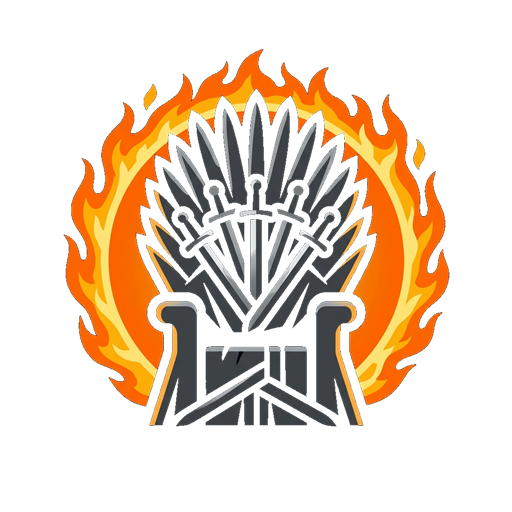
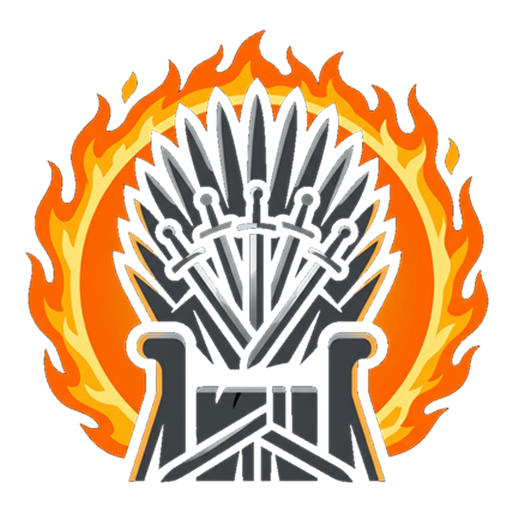
fix

diff --git a/style.css b/style.css
@@ -107,9 +107,8 @@ body.throne-open { overflow: hidden; }
 .realm-card > h1 { margin: 4px 0 10px; font: 600 clamp(28px, 4vw, 44px)/1.15 Cinzel, Georgia, serif; color: #e3d2ad; }
 .realm-card > .muted { line-height: 1.7; }
 .realm-card .house-picker { margin-top: 24px; }
-.realm-screen:has(.host-setup-card) { position: relative; isolation: isolate; min-height: 100vh; align-items: center; background: linear-gradient(90deg, rgba(6,7,9,.78), rgba(8,9,11,.48)), url('./assets/throne-photo-background.png') center / cover fixed; }
-.realm-screen:has(.host-setup-card)::before { content: ''; position: fixed; inset: 0; z-index: -1; background: linear-gradient(180deg, rgba(5,6,8,.2), rgba(5,6,8,.68)); pointer-events: none; }
-.host-setup-card { background: rgba(15, 16, 18, .88); backdrop-filter: blur(5px); max-width: 620px; }
+.realm-screen:has(.host-setup-card) { position: fixed; inset: 0; z-index: 25; min-height: 0; height: 100vh; height: 100dvh; padding: max(20px, env(safe-area-inset-top)) 18px max(20px, env(safe-area-inset-bottom)); align-items: center; overflow-y: auto; background: rgba(4, 5, 7, .42); backdrop-filter: blur(2px); }
+.host-setup-card { background: rgba(15, 16, 18, .94); backdrop-filter: blur(8px); max-width: 620px; }
 .host-setup-form { display: grid; gap: 9px; margin-top: 24px; }
 .host-setup-form label { margin-top: 8px; }
 .host-setup-form .button-full { margin-top: 14px; }

diff --git a/throne.html b/throne.html
@@ -1,7 +1,7 @@
 <!DOCTYPE html>
 <html lang="en"><head><meta charset="utf-8">
 <meta name="viewport" content="width=device-width, initial-scale=1, viewport-fit=cover">
-<link rel="icon" type="image/png" href="./assets/iron-throne-fire-icon.png?v=1">
+<link rel="icon" type="image/png" href="./assets/iron-throne-fire-icon.png?v=2">
 <title>War of Westeros — Choose your house</title>
 <link rel="preconnect" href="https://fonts.googleapis.com"><link rel="preconnect" href="https://fonts.gstatic.com" crossorigin><link rel="stylesheet" href="https://fonts.googleapis.com/css2?family=Cinzel:wght@600;700&family=IM+Fell+English:ital@1&display=swap">
 <style>

diff --git a/index.html b/index.html
@@ -6,7 +6,7 @@
   <meta name="theme-color" content="#101318">
   <meta name="description" content="A temporary multiplayer Great Houses strategy game prototype.">
   <title>War of Westeros — Multiplayer Strategy</title>
-  <link rel="icon" type="image/png" href="./assets/iron-throne-fire-icon.png?v=1">
+  <link rel="icon" type="image/png" href="./assets/iron-throne-fire-icon.png?v=2">
   <link rel="stylesheet" href="./style.css?v=17">
   <script src="https://cdn.socket.io/4.8.1/socket.io.min.js" defer></script>
   <script src="./config.js?v=17" defer></script>

diff --git a/app.js b/app.js
@@ -307,7 +307,7 @@
   function updateScreens() {
     const loggedIn = Boolean(state?.me);
     const hostSetup = showHostSetup || (loggedIn && state?.phase === 'LOBBY' && state.isHost && !state.settings?.configured);
-    const showThrone = !loggedIn && (!gameCode || !pickedHouse) && !hostSetup;
+    const showThrone = !loggedIn && (!gameCode || !pickedHouse);
     const waiting = loggedIn && state?.phase === 'LOBBY' && !hostSetup;
     $('throneScreen').hidden = !showThrone;
     $('loginScreen').hidden = loggedIn || !gameCode || showThrone;

diff --git a/throne-photo.html b/throne-photo.html
@@ -3,7 +3,7 @@
 <head>
   <meta charset="utf-8">
   <meta name="viewport" content="width=device-width, initial-scale=1, viewport-fit=cover">
-  <link rel="icon" type="image/png" href="./assets/iron-throne-fire-icon.png?v=1">
+  <link rel="icon" type="image/png" href="./assets/iron-throne-fire-icon.png?v=2">
   <title>War of Westeros — Choose your house</title>
   <link rel="preconnect" href="https://fonts.googleapis.com">
   <link rel="preconnect" href="https://fonts.gstatic.com" crossorigin>
